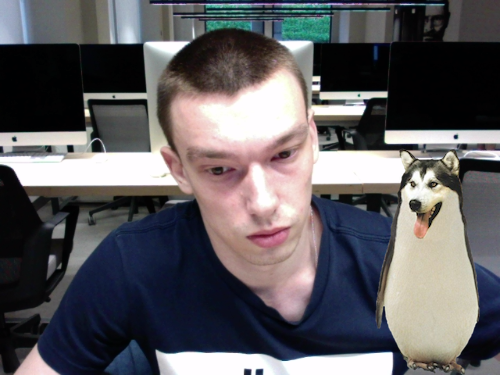
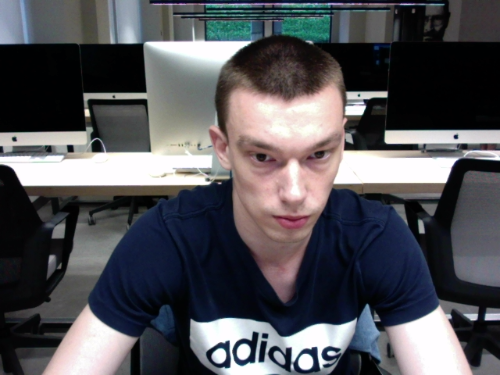
dfsf

diff --git a/public/js/shot.js b/public/js/shot.js
@@ -12,7 +12,7 @@ let filterRaccoon1 = document.getElementById('filter-raccoon-1');
 let filterRaccoon2 = document.getElementById('filter-raccoon-2');
 let filterRocketman = document.getElementById('filter-rocketman');
 let filterPenguin = document.getElementById('filter-penguin');
-let filterNoir = document.getElementById('filter-noir');
+let filterCat = document.getElementById('filter-cat');
 
 let image = document.getElementById('image-area');
 let shot;
@@ -99,8 +99,9 @@ filterPenguin.onclick = function() {
   sendImage('img=' + shot + '&filter=penguin');
 }
 
-filterNoir.onclick = function() {
+filterCat.onclick = function() {
   this.blur();
+  sendImage('img=' + shot + '&filter=cat');
 }
 
 disabledButton('false');
@@ -132,5 +133,5 @@ function disabledButton($val) {
   filterPenguin.disabled = $val;
   filterRaccoon2.disabled = $val;
   filterRocketman.disabled = $val;
-  filterNoir.disabled = $val;
+  filterCat.disabled = $val;
 }

diff --git a/application/views/shotView.php b/application/views/shotView.php
@@ -14,7 +14,7 @@
     <button id="filter-raccoon-2" class="filter-button">Raccoon B</button>
     <button id="filter-rocketman" class="filter-button">Rocketman</button>
     <button id="filter-penguin" class="filter-button">Penguin-Dog</button>
-    <button id="filter-noir" class="filter-button">Noir</button>
+    <button id="filter-cat" class="filter-button">Cat</button>
 </div>
 
 <div id="main-btns" class="container-btn">

diff --git a/application/controllers/ShotController.php b/application/controllers/ShotController.php
@@ -37,6 +37,8 @@ class ShotController extends Controller {
                     $this->applyFilter('public/resource/filter/rocketman.png', 10, -140);
                 case 'penguin':
                     $this->applyFilter('public/resource/filter/penguin.png', -20, 0);
+                case 'cat':
+                    $this->applyFilter('public/resource/filter/cat.png', -330, -30);
             }
 
         }
